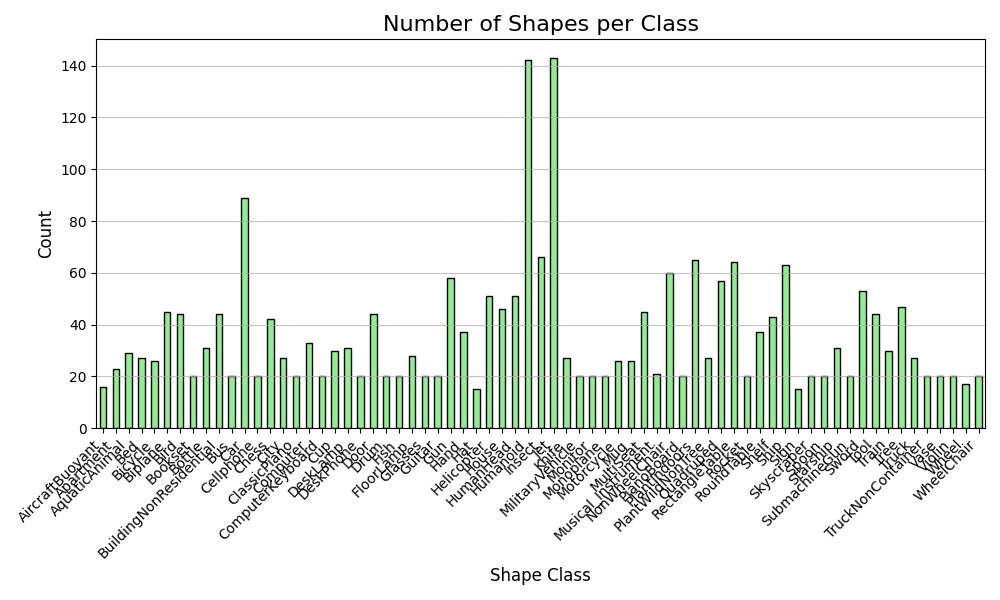
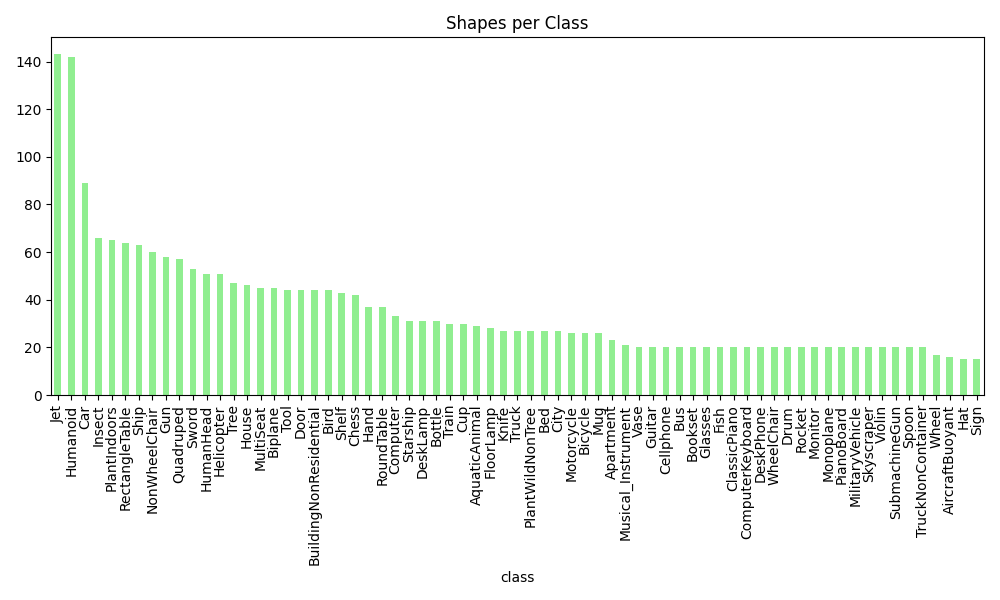
Laatste changes voor einde week 2

diff --git a/Step 2 - assignment.py b/Step 2 - assignment.py
@@ -1,201 +1,108 @@
 import os
-import sys
 import pandas as pd
 import matplotlib.pyplot as plt
 
-
+# Analyze a single .obj file for vertices, faces, face types, and bounding box
 def analyze_shape(file_path):
-    """
-    Parses a single .obj shape file to analyze its properties without external libraries.
+    vertices = []
+    face_vertex_counts = []
 
-    Args:
-        file_path (str): The full path to the .obj file.
+    with open(file_path, 'r') as f:
+        for line in f:
+            parts = line.strip().split()
+            if not parts:
+                continue
+            if parts[0] == 'v':  # Vertex line
+                vertices.append([float(parts[1]), float(parts[2]), float(parts[3])])
+            elif parts[0] == 'f':  # Face line
+                face_vertex_counts.append(len(parts) - 1)
 
-    Returns:
-        dict: A dictionary containing the shape's analysis results.
-              Returns None if the file cannot be processed.
-    """
-    try:
-        vertices = []
-        face_vertex_counts = []
+    # Get class from parent folder
+    shape_class = os.path.basename(os.path.dirname(file_path))
+    num_vertices = len(vertices)
+    num_faces = len(face_vertex_counts)
 
-        # Open and read the file line by line
-        with open(file_path, 'r') as f:
-            for line in f:
-                parts = line.strip().split()
-                if not parts:
-                    continue
-
-                # Check for vertex lines (lines starting with 'v')
-                if parts[0] == 'v' and len(parts) >= 4:
-                    vertices.append([float(parts[1]), float(parts[2]), float(parts[3])])
-
-                # Check for face lines (lines starting with 'f')
-                elif parts[0] == 'f' and len(parts) >= 4:
-                    # Count the number of vertices in the face
-                    face_vertex_counts.append(len(parts) - 1)
-
-        # Get the shape's class from the parent folder name
-        shape_class = os.path.basename(os.path.dirname(file_path))
-
-        # Get the number of vertices and faces
-        num_vertices = len(vertices)
-        num_faces = len(face_vertex_counts)
-
-        # Analyze face types
-        face_types = set()
-        for count in face_vertex_counts:
-            if count == 3:
-                face_types.add("triangles")
-            elif count == 4:
-                face_types.add("quads")
-            else:
-                face_types.add("other")
-
-        # Determine the type of faces as a readable string
-        if len(face_types) > 1:
-            face_type_str = "mix of " + " and ".join(sorted(list(face_types)))
+    # Determine face type
+    face_types = set()
+    for count in face_vertex_counts:
+        if count == 3:
+            face_types.add("triangles")
+        elif count == 4:
+            face_types.add("quads")
         else:
-            face_type_str = list(face_types)[0] if face_types else "unknown"
+            face_types.add("other")
+    face_type_str = " and ".join(sorted(face_types)) if face_types else "unknown"
 
-        # Calculate the axis-aligned 3D bounding box
-        if not vertices:
-            bounding_box = {
-                "min_x": None, "max_x": None,
-                "min_y": None, "max_y": None,
-                "min_z": None, "max_z": None
-            }
-        else:
-            min_x = min(v[0] for v in vertices)
-            max_x = max(v[0] for v in vertices)
-            min_y = min(v[1] for v in vertices)
-            max_y = max(v[1] for v in vertices)
-            min_z = min(v[2] for v in vertices)
-            max_z = max(v[2] for v in vertices)
-            bounding_box = {
-                "min_x": min_x, "max_x": max_x,
-                "min_y": min_y, "max_y": max_y,
-                "min_z": min_z, "max_z": max_z
-            }
-
-        return {
-            "filename": os.path.basename(file_path),
-            "class": shape_class,
-            "vertices": num_vertices,
-            "faces": num_faces,
-            "face_type": face_type_str,
-            "bounding_box": bounding_box
+    # Calculate bounding box
+    if vertices:
+        xs, ys, zs = zip(*vertices)
+        bounding_box = {
+            "min_x": min(xs), "max_x": max(xs),
+            "min_y": min(ys), "max_y": max(ys),
+            "min_z": min(zs), "max_z": max(zs)
         }
+    else:
+        bounding_box = {k: None for k in ["min_x", "max_x", "min_y", "max_y", "min_z", "max_z"]}
 
-    except Exception as e:
-        print(f"Error processing file '{file_path}': {e}")
-        return None
+    return {
+        "filename": os.path.basename(file_path),
+        "class": shape_class,
+        "vertices": num_vertices,
+        "faces": num_faces,
+        "face_type": face_type_str,
+        "bounding_box": bounding_box
+    }
 
-
+# Find all .obj files in a folder
 def find_obj_files(folder_path):
-    """
-    Recursively walks through a directory to find all .obj files.
-    """
     obj_files = []
     for root, _, files in os.walk(folder_path):
         for file in files:
             if file.lower().endswith('.obj'):
                 obj_files.append(os.path.join(root, file))
-    obj_files.sort()
-    return obj_files
+    return sorted(obj_files)
 
-
+# Main analysis and plotting
 def main():
-    """
-    Main function to run the shape analysis tool.
-    """
     folder_name = 'ShapeDatabase_INFOMR-master'
-
     if not os.path.isdir(folder_name):
-        print(f"Error: The folder '{folder_name}' does not exist.")
-        print("Please ensure you have the 'ShapeDatabase_INFOMR-master' folder in the same directory as this script.")
+        print(f"Folder '{folder_name}' not found.")
         return
 
     obj_files = find_obj_files(folder_name)
-
     if not obj_files:
-        print(f"No .obj files found in '{folder_name}'.")
+        print("No .obj files found.")
         return
 
-    print(f"Found {len(obj_files)} .obj files. Starting analysis...")
+    # Analyze all files and create csv
+    results = [analyze_shape(fp) for fp in obj_files]
+    df = pd.DataFrame(results)
+    df.to_csv('shape_database_analysis.csv', index=False)
+    print("Analysis saved to 'shape_database_analysis.csv'.")
 
-    analysis_results = []
-    for file_path in obj_files:
-        analysis_data = analyze_shape(file_path)
-        if analysis_data:
-            analysis_results.append(analysis_data)
+    # Print averages
+    print(f"Average vertices: {df['vertices'].mean():.2f}")
+    print(f"Average faces: {df['faces'].mean():.2f}")
 
-    df = pd.DataFrame(analysis_results)
-
-    output_csv = 'shape_database_analysis.csv'
-    df.to_csv(output_csv, index=False)
-    print(f"\nAnalysis results saved to '{output_csv}'.")
-
-    avg_vertices = df['vertices'].mean()
-    avg_faces = df['faces'].mean()
-
-    print("\nStatistical Analysis:")
-    print(f"Average number of vertices: {avg_vertices:.2f}")
-    print(f"Average number of faces: {avg_faces:.2f}")
-
-    if not df.empty:
-        q1_v, q3_v = df['vertices'].quantile([0.25, 0.75])
-        iqr_v = q3_v - q1_v
-        outlier_low_v = q1_v - 1.5 * iqr_v
-        outlier_high_v = q3_v + 1.5 * iqr_v
-
-        vertex_outliers = df[(df['vertices'] < outlier_low_v) | (df['vertices'] > outlier_high_v)]
-        if not vertex_outliers.empty:
-            print(f"\nSignificant outliers in vertex count found:")
-            print(vertex_outliers[['filename', 'vertices', 'faces']].to_string(index=False))
-
-        q1_f, q3_f = df['faces'].quantile([0.25, 0.75])
-        iqr_f = q3_f - q1_f
-        outlier_low_f = q1_f - 1.5 * iqr_f
-        outlier_high_f = q3_f + 1.5 * iqr_f
-
-        face_outliers = df[(df['faces'] < outlier_low_f) | (df['faces'] > outlier_high_f)]
-        if not face_outliers.empty:
-            print(f"\nSignificant outliers in face count found:")
-            print(face_outliers[['filename', 'vertices', 'faces']].to_string(index=False))
-
+    # Plot histograms
     plt.figure(figsize=(15, 5))
-
     plt.subplot(1, 2, 1)
-    df['vertices'].hist(bins=20, edgecolor='black', color='skyblue')
-    plt.title('Distribution of Vertex Counts', fontsize=14)
-    plt.xlabel('Number of Vertices', fontsize=12)
-    plt.ylabel('Number of Shapes', fontsize=12)
-    plt.grid(axis='y', alpha=0.75)
-
+    df['vertices'].hist(bins=20, color='skyblue')
+    plt.title('Vertex Count Distribution')
     plt.subplot(1, 2, 2)
-    df['faces'].hist(bins=20, edgecolor='black', color='lightcoral')
-    plt.title('Distribution of Face Counts', fontsize=14)
-    plt.xlabel('Number of Faces', fontsize=12)
-    plt.ylabel('Number of Shapes', fontsize=12)
-    plt.grid(axis='y', alpha=0.75)
-
+    df['faces'].hist(bins=20, color='lightcoral')
+    plt.title('Face Count Distribution')
     plt.tight_layout()
     plt.savefig('vertex_face_histograms.png')
-    print("\nHistograms saved as 'vertex_face_histograms.png'.")
+    print("Histograms saved.")
 
+    # Plot class bar chart
     plt.figure(figsize=(10, 6))
-    class_counts = df['class'].value_counts().sort_index()
-    class_counts.plot(kind='bar', color='lightgreen', edgecolor='black')
-    plt.title('Number of Shapes per Class', fontsize=16)
-    plt.xlabel('Shape Class', fontsize=12)
-    plt.ylabel('Count', fontsize=12)
-    plt.xticks(rotation=45, ha='right')
-    plt.grid(axis='y', alpha=0.75)
+    df['class'].value_counts().plot(kind='bar', color='lightgreen')
+    plt.title('Shapes per Class')
     plt.tight_layout()
     plt.savefig('shape_class_bar_chart.png')
-    print("Bar chart saved as 'shape_class_bar_chart.png'.")
-
+    print("Bar chart saved.")
 
 if __name__ == "__main__":
     main()

diff --git a/Step 1 - assignment.py b/Step 1 - assignment.py
@@ -26,9 +26,18 @@ def parse_obj_info(filepath):
                 parts = line.strip().split()
                 faces.append(parts[1:])
 
-    if faces:
-        # Determine the face type
-        face_type = f"{len(faces[0])}-gon"
+
+    face_types = set()
+    for face in faces:
+        count = len(face)
+        if count == 3:
+            face_types.add("triangles")
+        elif count == 4:
+            face_types.add("quads")
+        else:
+            face_types.add("other")
+    face_type = " and ".join(sorted(face_types)) if face_types else "unknown"
+
 
     bbox = "N/A"
     if vertices:
